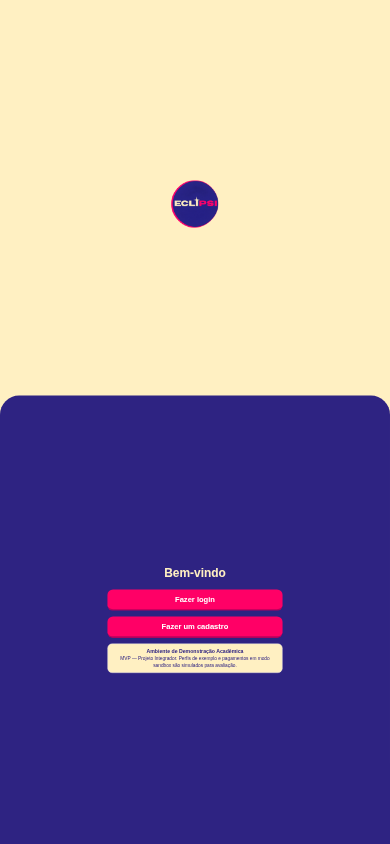
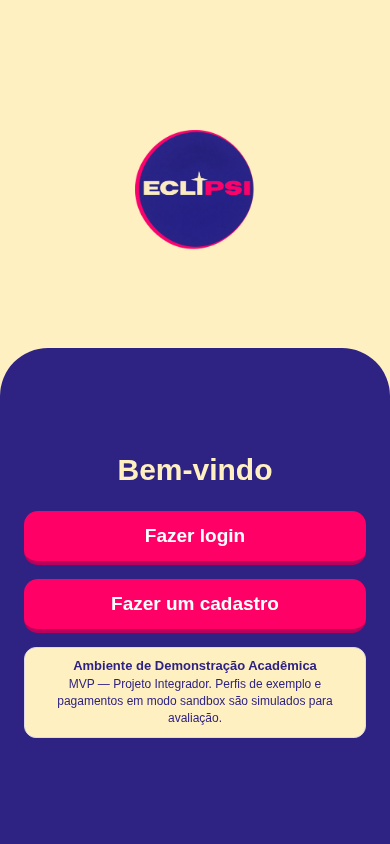
fix: restaura viewport mobile e atualiza evidências

Changed region(s): [[0.0615, 0.5237, 0.9538, 0.8934], [0.0, 0.4005, 1.0, 0.4929], [0.3385, 0.154, 0.6769, 0.3081]]

diff --git a/eclipsi/app/+html.tsx b/eclipsi/app/+html.tsx
@@ -7,6 +7,7 @@ export default function Html({ children }: { children: ReactNode }) {
   return (
     <html {...htmlAttributes} lang="pt-BR">
       <head>
+        <meta name="viewport" content="width=device-width, initial-scale=1, shrink-to-fit=no" />
         {headNodes}
         <ScrollViewStyleReset />
         <link rel="icon" href="/favicon.ico" sizes="any" />

diff --git a/README.md b/README.md
@@ -96,7 +96,9 @@ O Expo grava a exportação em `eclipsi/dist/`.
 
 ## Capturas de Tela
 
-Evidências de produção obtidas via Playwright e Chromium em 23/11/2026 (horário de Recife). As capturas registram o conteúdo da página. O título da aba e a resposta HTTP do favicon foram verificados à parte no navegador. A captura mobile de 390 × 844 preserva a escala observada no deploy, cujo HTML não declarou a meta tag de viewport.
+Evidências de produção obtidas via Playwright e Chromium em 23/11/2026 (horário de Recife). As capturas registram o conteúdo da página. O título da aba e a resposta HTTP do favicon foram verificados à parte no navegador. A exportação Web deste PR contém a meta tag de viewport. Na recaptura mobile de 390 × 844, o HTML publicado ainda não a servia. O Playwright aplicou apenas essa meta tag à sessão de captura, sobre a página de produção, para mostrar o enquadramento previsto. A captura do login usa a página de produção sem intervenção.
+
+A revisão da migração confirmou as declarações de RLS para `disponibilidades`, `triagens` e `pagamentos` no código. As políticas efetivas e a constraint `ck_users_especialidade` não puderam ser verificadas no Supabase de produção sem acesso ao catálogo do banco.
 
 Na sessão de teste, Lívia Andrade (Demo) ficou em primeiro com 100% e a API retornou 13 horários livres. O checkout de R$ 110,00 retornou `201` em modo `mercadopago`, com QR e código EMV. A captura e o trecho correspondente do vídeo ocultam as partes pagáveis. A cobrança ficou sem pagamento. O horário criado pela conta profissional fictícia foi removido após o teste.
 
